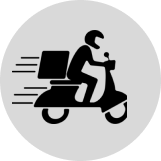
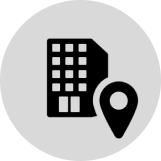
checkout done

Changed region(s): [[0.0621, 0.1863, 0.8696, 0.8696]]

diff --git a/Checkout.html b/Checkout.html
@@ -7,7 +7,7 @@
         <link rel="stylesheet" href="https://fonts.googleapis.com/css2?family=Roboto:wght@400;700&display=swap">
         <link rel="stylesheet" href="https://cdnjs.cloudflare.com/ajax/libs/font-awesome/6.4.2/css/all.min.css" integrity="sha512-z3gLpd7yknf1YoNbCzqRKc4qyor8gaKU1qmn+CShxbuBusANI9QpRohGBreCFkKxLhei6S9CQXFEbbKuqLg0DA==" crossorigin="anonymous" referrerpolicy="no-referrer" />
         <link rel="stylesheet" href="css/Style.css">
-
+        <script src="js/checkout.js"></script>
         <!-- Include Bootstrap CSS -->
         <link href="https://cdn.jsdelivr.net/npm/bootstrap@5.0.2/dist/css/bootstrap.min.css" rel="stylesheet" integrity="sha384-EVSTQN3/azprG1Anm3QDgpJLIm9Nao0Yz1ztcQTwFspd3yD65VohhpuuCOmLASjC" crossorigin="anonymous">
         <script src="https://ajax.googleapis.com/ajax/libs/jquery/3.7.1/jquery.min.js"></script>
@@ -118,11 +118,11 @@
                             <div class="card-outline">
                                 <div class="row">
                                     <div class="col-md-8 col-xs-12 d-flex align-self-md-start justify-content-md-start align-self-center justify-content-center align-items-center">
-                                        <img src="img/Onsite.png">
-                                        <h1>Delivery</h1>
+                                        <img class="deliveryPickupImage" src="img/Delivery.png">
+                                        <h1 class="deliveryPickupText">Delivery</h1>
                                     </div>
                                     <div class="col-md-4 col-12 d-flex align-self-center justify-content-center">
-                                        <button class="btn btn-primary" type="submit">Ubah</button>
+                                        <button class="btn btn-primary" onclick="toggleDeliveryPickup()">Ubah</button>
                                     </div>
                                 </div>
                             </div>
@@ -134,16 +134,16 @@
                                     <p style="padding-top: 1rem;">(max 14 hari)</p>
                                 </div>
                                 <div class="col-md-6 d-flex align-items-center justify-content-md-end justify-content-center">
-                                    <i class="fa fa-plus-circle fa-3x" style="color:blue"></i>
-                                    <h1 style="margin:0; padding-inline: 10%;">14</h1>
-                                    <i class="fa fa-minus-circle fa-3x"style="color:blue"></i>
+                                    <i class="fa fa-plus-circle fa-3x" style="color:blue" onclick="incrementDuration()"></i>
+                                    <h1 class="durationValue" style="margin:0; padding-inline: 10%;">14 hari</h1>
+                                    <i class="fa fa-minus-circle fa-3x"style="color:blue " onclick="decrementDuration()"></i>
                                 </div>
                             </div>
                         </div>
                         <div class="col-xl-12">
                             <div class="card-outline" style="margin-bottom: 0; height: 12.8125rem;">
-                                <h3>Delivery ke alamat</h3>
-                                <h4>Lorem Ipsum dolor si amet</h4>
+                                <h3 class="deliveryAddressTitle">Delivery ke alamat</h3>
+                                <h4 class="deliveryAddressContent">Lorem Ipsum dolor si amet</h4>
                             </div>
                         </div>
                     </div>
@@ -185,13 +185,13 @@
                             <h2>Metode Pinjam</h2>
                         </div>
                         <div class="col-auto">
-                            <h4 style="padding-top: 1rem;">Delivery</h4>
+                            <h4 class="deliveryPickupText" style="padding-top: 1rem;">Delivery</h4>
                         </div>
                         <div class="col-6 me-auto">
                             <h2>Durasi Pinjam</h2>
                         </div>
                         <div class="col-auto">
-                            <h4 style="padding-top: 1rem;">14 hari</h4>
+                            <h4 class="durationValue" style="padding-top: 1rem;">14 hari</h4>
                         </div>
                         <div class="col-6 me-auto">
                             <h2>Total Dipinjam</h2>

diff --git a/js/checkout.js b/js/checkout.js
@@ -1,0 +1,59 @@
+function toggleDeliveryPickup() {
+    var deliveryPickupTexts = document.querySelectorAll(".deliveryPickupText");
+    var deliveryPickupImages = document.querySelectorAll(".deliveryPickupImage");
+    var deliveryAddressTitles = document.querySelectorAll(".deliveryAddressTitle");
+    var deliveryAddressContents = document.querySelectorAll(".deliveryAddressContent");
+
+    // Check the current text and toggle
+    deliveryPickupTexts.forEach(function(element) {
+        if (element.innerHTML === "Delivery") {
+            element.innerHTML = "Pickup";
+        } else {
+            element.innerHTML = "Delivery";
+        }
+    });
+
+    // Update images, titles, and contents accordingly
+    deliveryPickupImages.forEach(function(element) {
+        if (element.src.includes("Delivery.png")) {
+            element.src = "img/Onsite.png";
+        } else {
+            element.src = "img/Delivery.png";
+        }
+    });
+
+    deliveryAddressTitles.forEach(function(element) {
+        if (element.innerHTML === "Delivery ke alamat") {
+            element.innerHTML = "Pickup di lokasi";
+        } else {
+            element.innerHTML = "Delivery ke alamat";
+        }
+    });
+
+    deliveryAddressContents.forEach(function(element) {
+        // Update content if needed
+    });
+}
+
+var durationValue = 14; // Initial duration value
+
+    function incrementDuration() {
+        if (durationValue < 14) {
+            durationValue++;
+            updateDuration();
+        }
+    }
+
+    function decrementDuration() {
+        if (durationValue > 1) {
+            durationValue--;
+            updateDuration();
+        }
+    }
+
+    function updateDuration() {
+        var durationElements = document.querySelectorAll(".durationValue");
+        durationElements.forEach(function(element) {
+            element.innerHTML = durationValue + " hari";
+        });
+    }

diff --git a/css/Style.css b/css/Style.css
@@ -349,6 +349,9 @@ nav .nav-link, .navbar-toggler {
 
 
 /*---------------------------------------------------------CHECKOUT---------------------------------------------------------------*/
+#checkout i {
+    cursor: pointer;
+}
 
 #checkout .card {
     margin-block: 2.5rem;
